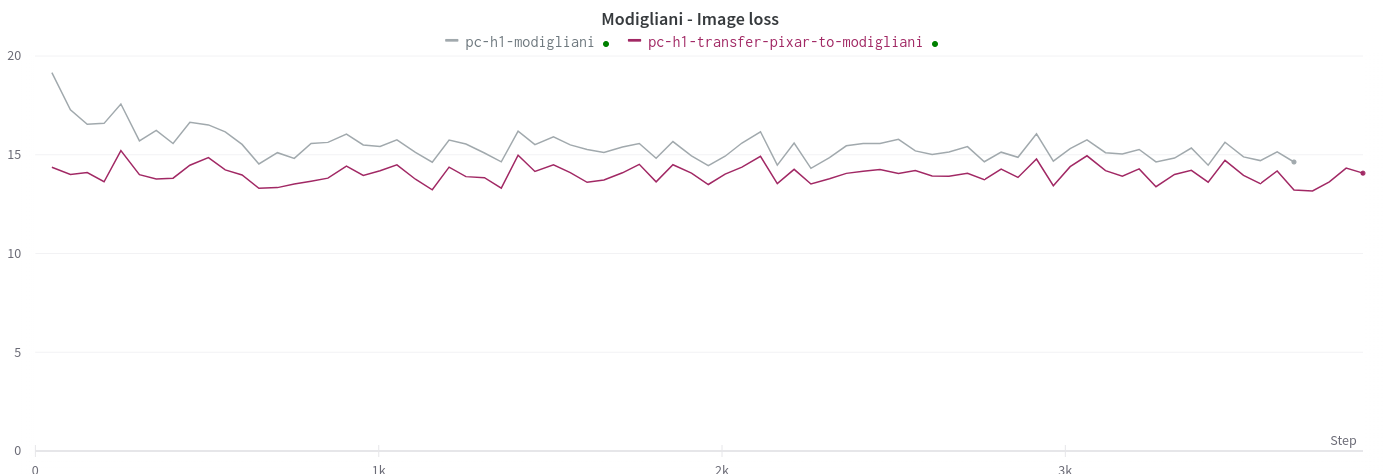
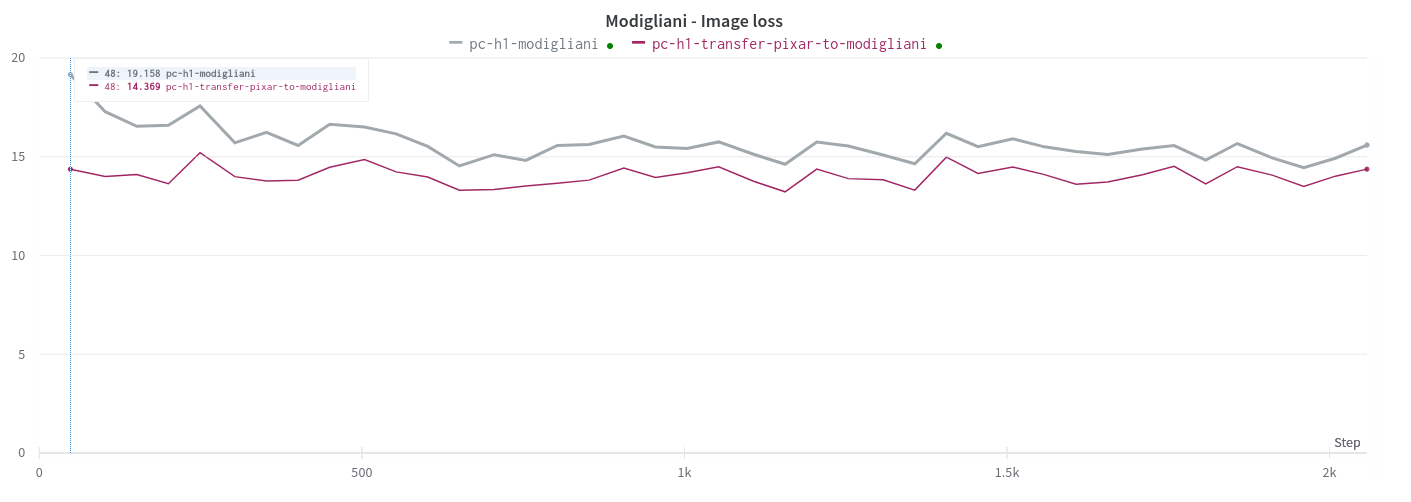
added figure

diff --git a/blogpost.md b/blogpost.md
@@ -617,10 +617,11 @@ The significant cost of training a new model for each editing direction makes th
 <table align="center">
   <tr align="center">
       <th><img src="figures/ablation/transfer_learning_loss.png"></th>
+      <th><img src="figures/ablation/transfer_comparison.png"></th>
 
   </tr>
   <tr align="left">
-    <td colspan=3><b>Figure 18.</b> Retraining from a different trains faster than training from scratch.</td>
+    <td colspan=3><b>Figure 18.</b> Retraining from a different trains faster than training from scratch. Left the loss curve, right the results after 2000 steps</td>
   </tr>
 </table>
 
